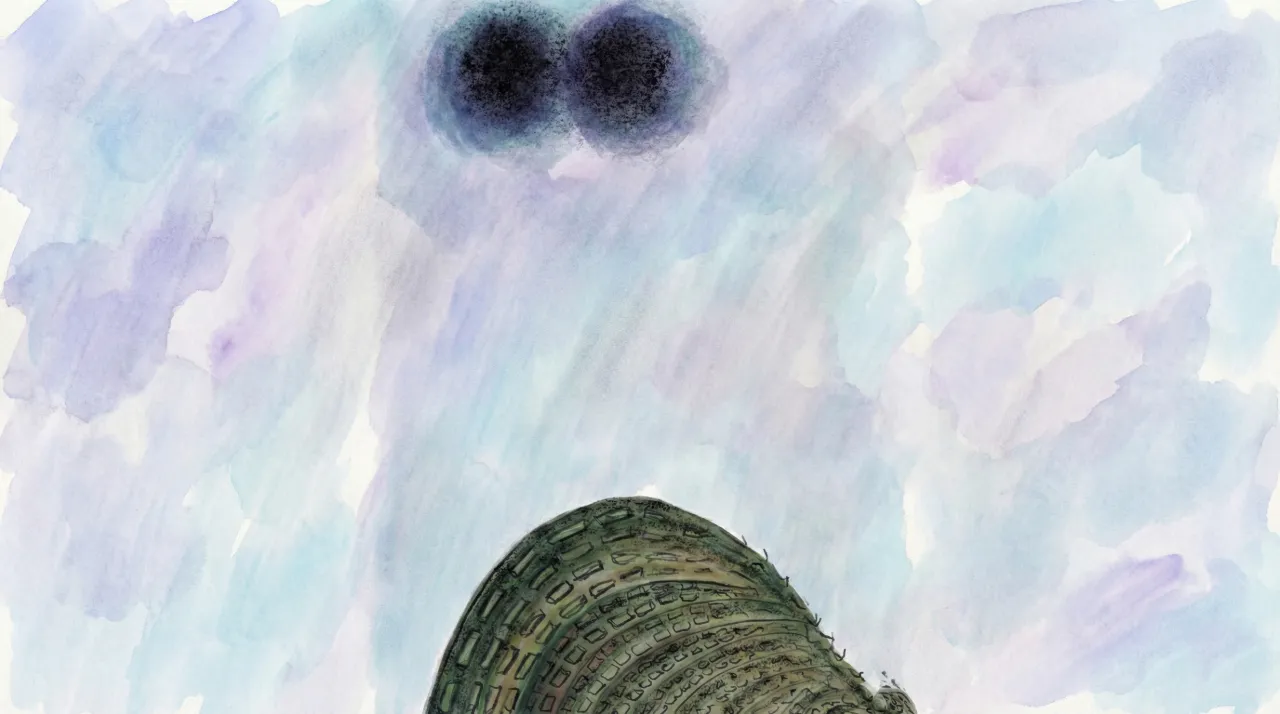
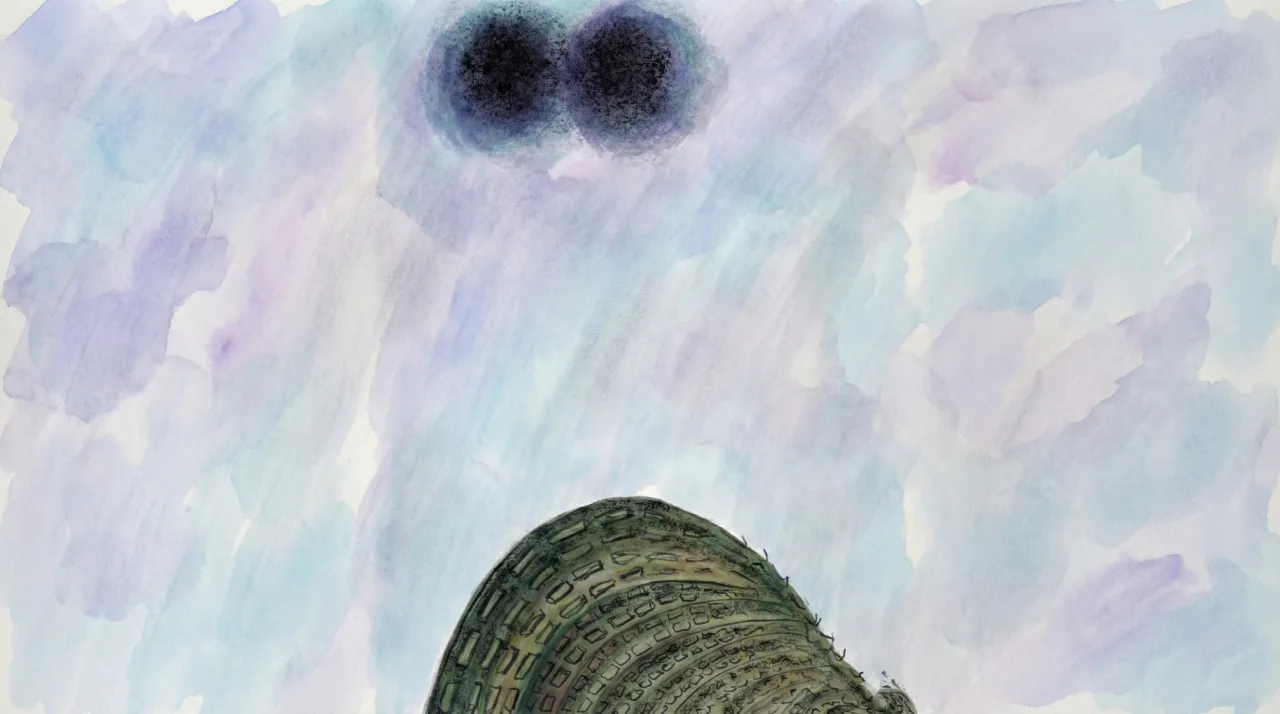
Accueil : suture effacée (paysage égalisé) ; portrait d'origine sur les écrans en hauteur
- Les côtés ajoutés par Gemini sont égalisés sur le dessin d'origine (bande centrale)
- Téléphones : le portrait d'origine, vague d'immeubles en grand (étoile ✦ retouchée)
- Image de partage régénérée sans la suture

Changed region(s): [[0.9375, 0.0, 1.0, 1.0]]

diff --git a/index.html b/index.html
@@ -112,6 +112,18 @@
             opacity: 0.7;
         }
         .hero-image-dessin { display: block; width: 100%; height: 100%; }
+        /* Écrans en hauteur : le portrait d'origine (1792 × 2400), plein cadre, cadré entre les
+           soleils (36 % de sa largeur) ; soleils animés recalés sur ce dessin. */
+        @media (max-aspect-ratio: 4/5) {
+            .hero-toile {
+                --w: max(100vw, calc((100vh - 4rem) * 0.7467));
+                height: calc(var(--w) / 0.7467);
+                left: clamp(calc(100vw - var(--w)), calc(50vw - var(--w) * 0.36), 0px);
+            }
+            .hero-scene .hero-soleil { top: 11%; width: 26%; }   /* .hero-scene : priorité sur les règles générales */
+            .hero-scene .hero-soleil-1 { left: 23.4%; }
+            .hero-scene .hero-soleil-2 { left: 48%; }
+        }
         /* Le ciel d'aquarelle dérive : un voile de lumière qui glisse très lentement */
         .hero-ciel {
             position: absolute;
@@ -262,6 +274,9 @@
             <div class="hero-parallax">
                 <div class="hero-toile hero-zoom">
                     <picture>
+                        <!-- Écrans en hauteur : le portrait d'origine (vague d'immeubles en grand) -->
+                        <source media="(max-aspect-ratio: 4/5)" type="image/webp" srcset="assets/theme-picture/deux-soleils-portrait-1200.webp">
+                        <source media="(max-aspect-ratio: 4/5)" srcset="assets/theme-picture/deux-soleils-portrait-1200.jpg">
                         <source type="image/webp"
                                 srcset="assets/theme-picture/deux-soleils-1280.webp 1280w, assets/theme-picture/deux-soleils-2400.webp 2400w"
                                 sizes="max(100vw, 179vh)">

diff --git a/CLAUDE.md b/CLAUDE.md
@@ -20,14 +20,21 @@ et `script.js` (qui fixe aussi le titre : « Mahigan | écritures et intelligenc
 - `robots.txt` — signale le plan du site de Terminal terrestre.
 
 ## Accueil : « Deux soleils » vivant
-Le dessin est posé dans une toile au format exact de l'image (2400 × 1340), calée sous la barre
-de navigation, qui montre **toute la hauteur du dessin** (soleils en haut, vague d'immeubles en
-bas — l'auteur y tient) ; si elle déborde sur les côtés, elle est cadrée à 44 % de sa largeur
-(entre les deux soleils), sans vide. Deux calques animés
-(`.hero-soleil-1`, `-2`, aux coordonnées des soleils peints : 39,2 % / 48,75 %, 11,2 %) font
-respirer les soleils à contretemps ; `.hero-ciel` fait dériver un voile de lumière ; un petit
-script déplace l'ensemble avec le curseur (ou l'inclinaison du téléphone). Tout s'arrête si
-l'appareil demande moins de mouvement. Si l'image change, recalculer ces coordonnées.
+Deux versions du dessin, plein cadre (jamais de marges sur les côtés — l'auteur y tient) :
+- **Écrans larges** : la version paysage (agrandie par Gemini à partir du portrait). Le portrait
+  d'origine y occupe la bande centrale (x ≈ 830–1900 sur 2752), plus sombre que les côtés
+  ajoutés : `outils/images.mjs` **égalise** les côtés sur le centre (colonne par colonne, en
+  fondu) pour effacer la suture. Toile 2400 × 1340 calée sous la barre, qui montre toute la
+  hauteur du dessin (soleils en haut, vague en bas) ; cadrée à 44 % si elle déborde.
+  Soleils animés : 39,2 % / 48,75 %, 11,2 %, largeur 12 %.
+- **Écrans en hauteur** (`max-aspect-ratio: 4/5`, téléphones) : le **portrait d'origine**
+  (`../../obsolescence-site/assets/colored-drawings/chapter 4.png`, étoile ✦ retouchée), où la
+  vague d'immeubles est grande. Cadré à 36 %. Soleils : 23,4 % / 48 %, 11 %, largeur 26 %.
+- Essayé et écarté : le portrait seul au centre sur grand écran (grosses marges latérales).
+Animation : les soleils respirent à contretemps, `.hero-ciel` fait dériver un voile de lumière,
+un petit script déplace l'ensemble avec le curseur (ou l'inclinaison du téléphone). Tout
+s'arrête si l'appareil demande moins de mouvement. Si une image change, recalculer les
+coordonnées des soleils.
 
 ## Projets
 Trois cartes, du plus récent au plus ancien : Terminal terrestre (/tt/, en français), L'écriture
